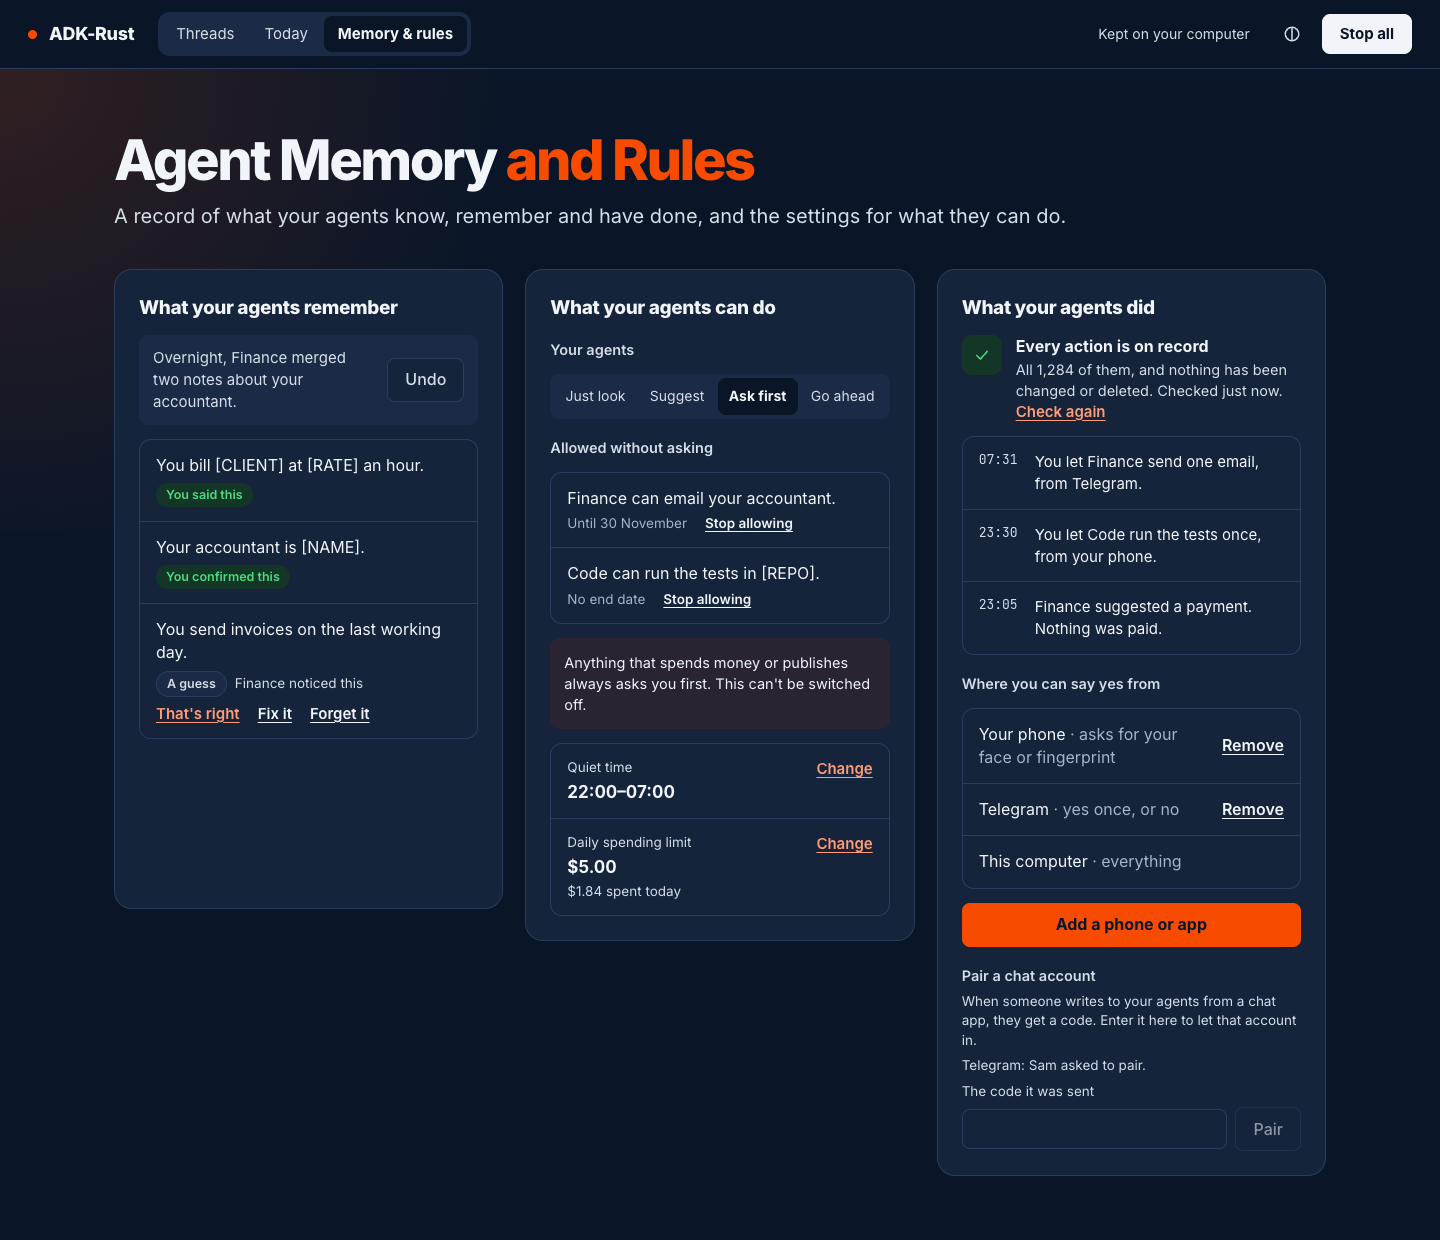
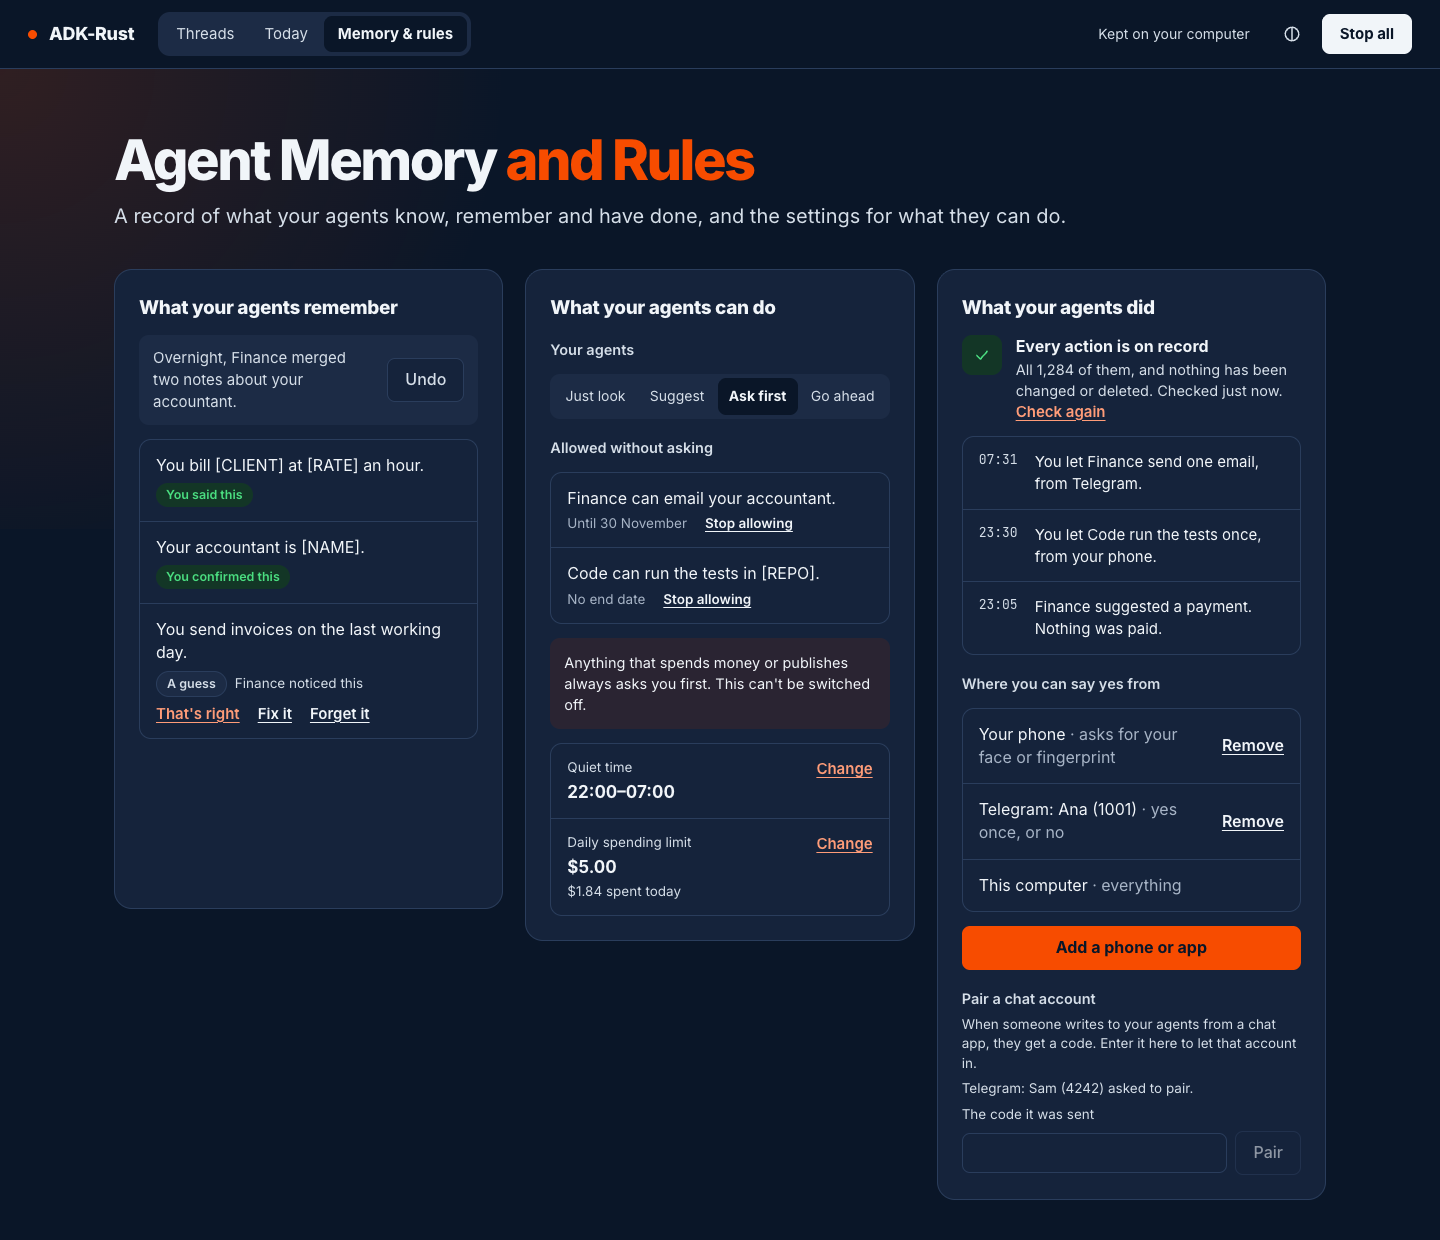
docs(surface): web home images after the wave 2 fixes (spec 3.3 §5.1)

Changed region(s): [[0.6562, 0.6435, 0.9062, 0.9194], [0.8438, 0.6435, 0.9062, 0.6742]]

diff --git a/adk-surface/web/src/fixture/fixture.ts b/adk-surface/web/src/fixture/fixture.ts
@@ -545,7 +545,7 @@ export function fixtureSeams(calls: SeamCalls = { seen: [], records: [], accepte
     devices: {
       list: async () => [
         { id: "d1", name: "Your phone", may: "asks for your face or fingerprint" },
-        { id: "d2", name: "Telegram", may: "yes once, or no" },
+        { id: "d2", name: "Telegram: Ana (1001)", may: "yes once, or no" },
       ],
       remove: async () => {},
       pair: async () => "482 913",
